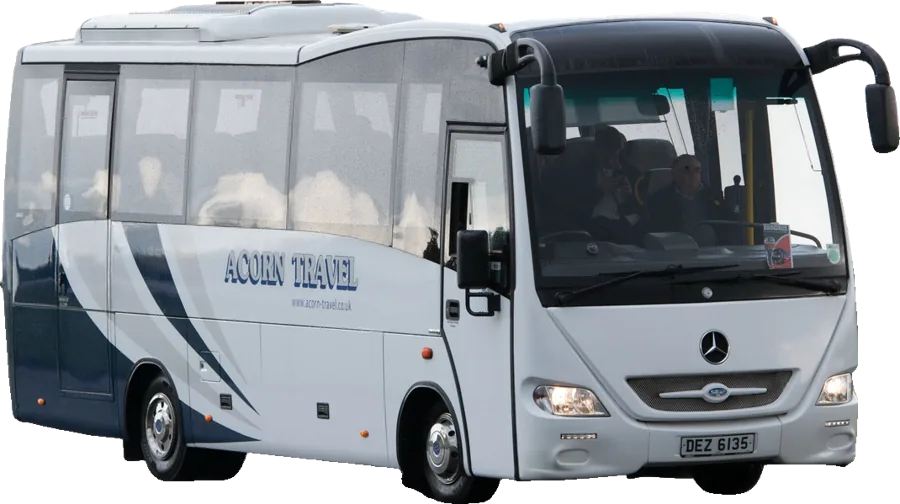
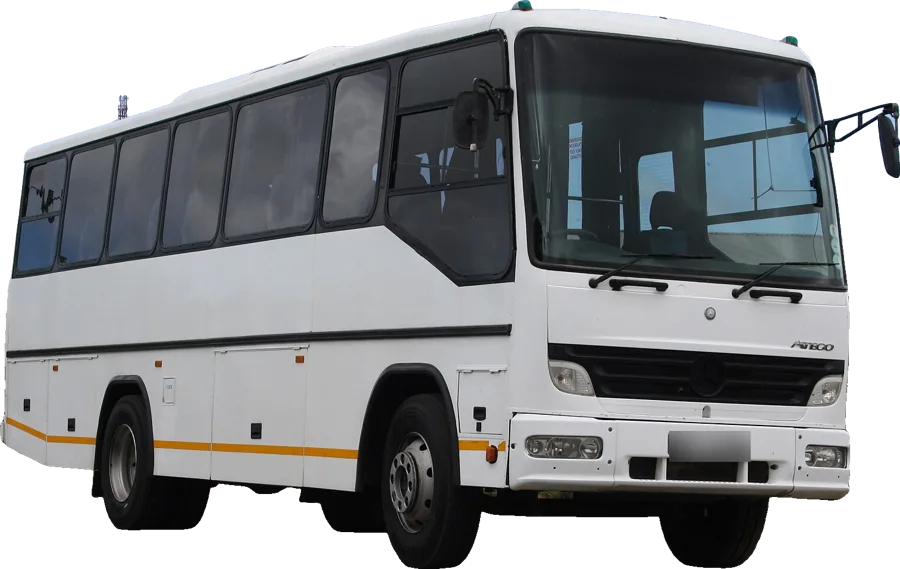
Flotta: foto dei bus senza marchi di altre compagnie
Isuzu: un Turquoise senza scritte al posto del Novo con la livrea KIWI.
Atego: un bus bianco senza livrea, cancellato il blocco col nome del
proprietario sulla fiancata. Targhe sfocate. Crediti aggiornati; posti
dell'Isuzu (25) confermati dalla proprieta'.

diff --git a/src/lib/flotta.ts b/src/lib/flotta.ts
@@ -10,10 +10,8 @@
  *    our-vehicles/page.tsx), che e' gia' online e gia' rivista.
  *  - Bus: dalla proprieta', 12/10/2026: «6 minibus Isuzu e 4 bus Atego
  *    (36 posti, di cui 1 solo da 28 perche' ha il bagno)».
- *  - 🔴 I 25 POSTI DELL'ISUZU NON LI HA DETTI NESSUNO: sono quelli che il
- *    sito promette per i small group («never more than 25 guests»,
- *    src/lib/categorie.ts) e che /about-us/ chiama «25-seat minibuses».
- *    Da confermare con la proprieta'.
+ *  - I 25 posti dell'Isuzu: confermati dalla proprieta' il 12/10/2026
+ *    (sono anche quelli che il sito promette per i small group).
  *
  * ── QUALE MEZZO PER QUALE TOUR ───────────────────────────────────────
  * Confermato dalla proprieta' il 12/10/2026, partendo da quello che dicono
@@ -27,10 +25,16 @@
  * ── LE FOTO ──────────────────────────────────────────────────────────
  * Da Wikimedia Commons, con licenza libera, scontornate. NON sono i
  * nostri mezzi: sono il modello. La pagina lo dice, e cita autore e
- * licenza di ognuna come le licenze CC BY / CC BY-SA chiedono. Le due dei
- * bus portano la livrea di altre compagnie (non esiste su Commons una foto
- * libera senza): vanno sostituite con foto vere dei nostri mezzi appena ci
- * sono. File in public/listino/flotta/.
+ * licenza di ognuna come le licenze CC BY-SA chiedono.
+ *
+ * 🔴 NIENTE MARCHI DI ALTRE AZIENDE (proprieta', 12/10/2026). Restano
+ * solo quelli del costruttore (Mercedes, Isuzu, il nome del modello). Le
+ * prime foto dei bus portavano la livrea di altre compagnie («KIWI»,
+ * «Acorn Travel») e sono state sostituite: l'Isuzu e' ora un Turquoise
+ * senza scritte, l'Atego un bus bianco a cui e' stato cancellato il
+ * blocco con i dati del proprietario sulla fiancata. Targhe sfocate su
+ * entrambi. Chi cambia una foto deve rifare lo stesso controllo.
+ * File in public/listino/flotta/.
  */
 
 import type { Servizio } from './listino';
@@ -160,10 +164,10 @@ export const FLOTTA: Mezzo[] = [
     suRichiesta: null,
     foto: '/listino/flotta/isuzu.webp',
     credito: {
-      autore: 'Milhouse35',
-      licenza: 'CC BY-SA 4.0',
-      licenzaUrl: BY_SA_4,
-      fonte: 'https://commons.wikimedia.org/wiki/File:Isuzu_Novo.jpg',
+      autore: 'Anatoliy-024',
+      licenza: 'CC BY-SA 3.0',
+      licenzaUrl: 'https://creativecommons.org/licenses/by-sa/3.0/',
+      fonte: 'https://commons.wikimedia.org/wiki/File:Isuzu_Turquoise.jpg',
     },
   },
   {
@@ -181,10 +185,10 @@ export const FLOTTA: Mezzo[] = [
     suRichiesta: 'Groups of 9 or more, events and weddings, on request.',
     foto: '/listino/flotta/atego.webp',
     credito: {
-      autore: 'km30192002',
-      licenza: 'CC BY 2.0',
-      licenzaUrl: 'https://creativecommons.org/licenses/by/2.0/',
-      fonte: 'https://commons.wikimedia.org/wiki/File:DEZ6135_Acorn_Travel_Mercedes_Atego_with_Sitcar_bodywork_(36940907474).jpg',
+      autore: 'Bob Adams',
+      licenza: 'CC BY-SA 2.0',
+      licenzaUrl: 'https://creativecommons.org/licenses/by-sa/2.0/',
+      fonte: 'https://commons.wikimedia.org/wiki/File:Mercedes_Benz_Atego_bus_(16456228222).jpg',
     },
   },
 ];

diff --git a/LISTINO_AGENT.md b/LISTINO_AGENT.md
@@ -136,21 +136,25 @@ I dati stanno in `src/lib/flotta.ts`. I mezzi sono sei:
 | Mercedes Classe S | 4 | gli stessi servizi, su richiesta |
 | Mercedes Classe V | 6 | da 4 a 6 persone |
 | Mercedes Sprinter | 8 | da 7 a 8 persone |
-| Isuzu (6 in flotta) | 25 | i 3 small group |
+| Isuzu minibus (6 in flotta) | 25 | i 3 small group |
 | Mercedes Atego (4 in flotta) | 36 | gruppi da 9 in su, eventi e matrimoni, su richiesta; uno ha il bagno e 28 posti |
 
 - **Abbinamento mezzo → tour:** confermato dalla proprietà. L'elenco dei
   tour sotto ogni mezzo si calcola dal catalogo (`impiegoDi`): i servizi
   «per party» vanno alle auto, quelli «per person» al minibus.
-- 🔴 **I 25 posti dell'Isuzu non li ha detti nessuno.** Sono quelli che il
-  sito promette per i small group. Da confermare.
+- I 25 posti dell'Isuzu sono stati confermati dalla proprietà.
 - 🔴 **Le foto non sono dei nostri mezzi.** Vengono da Wikimedia Commons
-  (CC BY-SA 4.0 e CC BY 2.0). La pagina lo dice e cita autore, licenza e
-  fonte di ognuna. Le due dei bus portano la livrea di altre compagnie
-  («KIWI», «Acorn Travel»): su Commons non c'è una foto libera senza.
-  Vanno sostituite con foto vere appena ci sono: i file sono in
-  `public/listino/flotta/`, si scontornano con `rembg` (modello
-  `isnet-general-use`).
+  (CC BY-SA). La pagina lo dice e cita autore, licenza e fonte di
+  ognuna.
+- 🔴 **Niente marchi di altre aziende** (proprietà, 12/10/2026). Restano
+  solo quelli del costruttore. Le prime foto dei bus portavano la livrea
+  di altre compagnie e sono state sostituite: l'Isuzu ora è un Turquoise
+  senza scritte, e sull'Atego è stato cancellato il blocco col nome del
+  proprietario. Targhe sfocate.
+- **Per cambiare una foto:**
+  - i file sono in `public/listino/flotta/`;
+  - si scontornano con `rembg` (modello `isnet-general-use`);
+  - va rifatto il controllo su marchi e targhe.
 
 ## Come si prova
 
